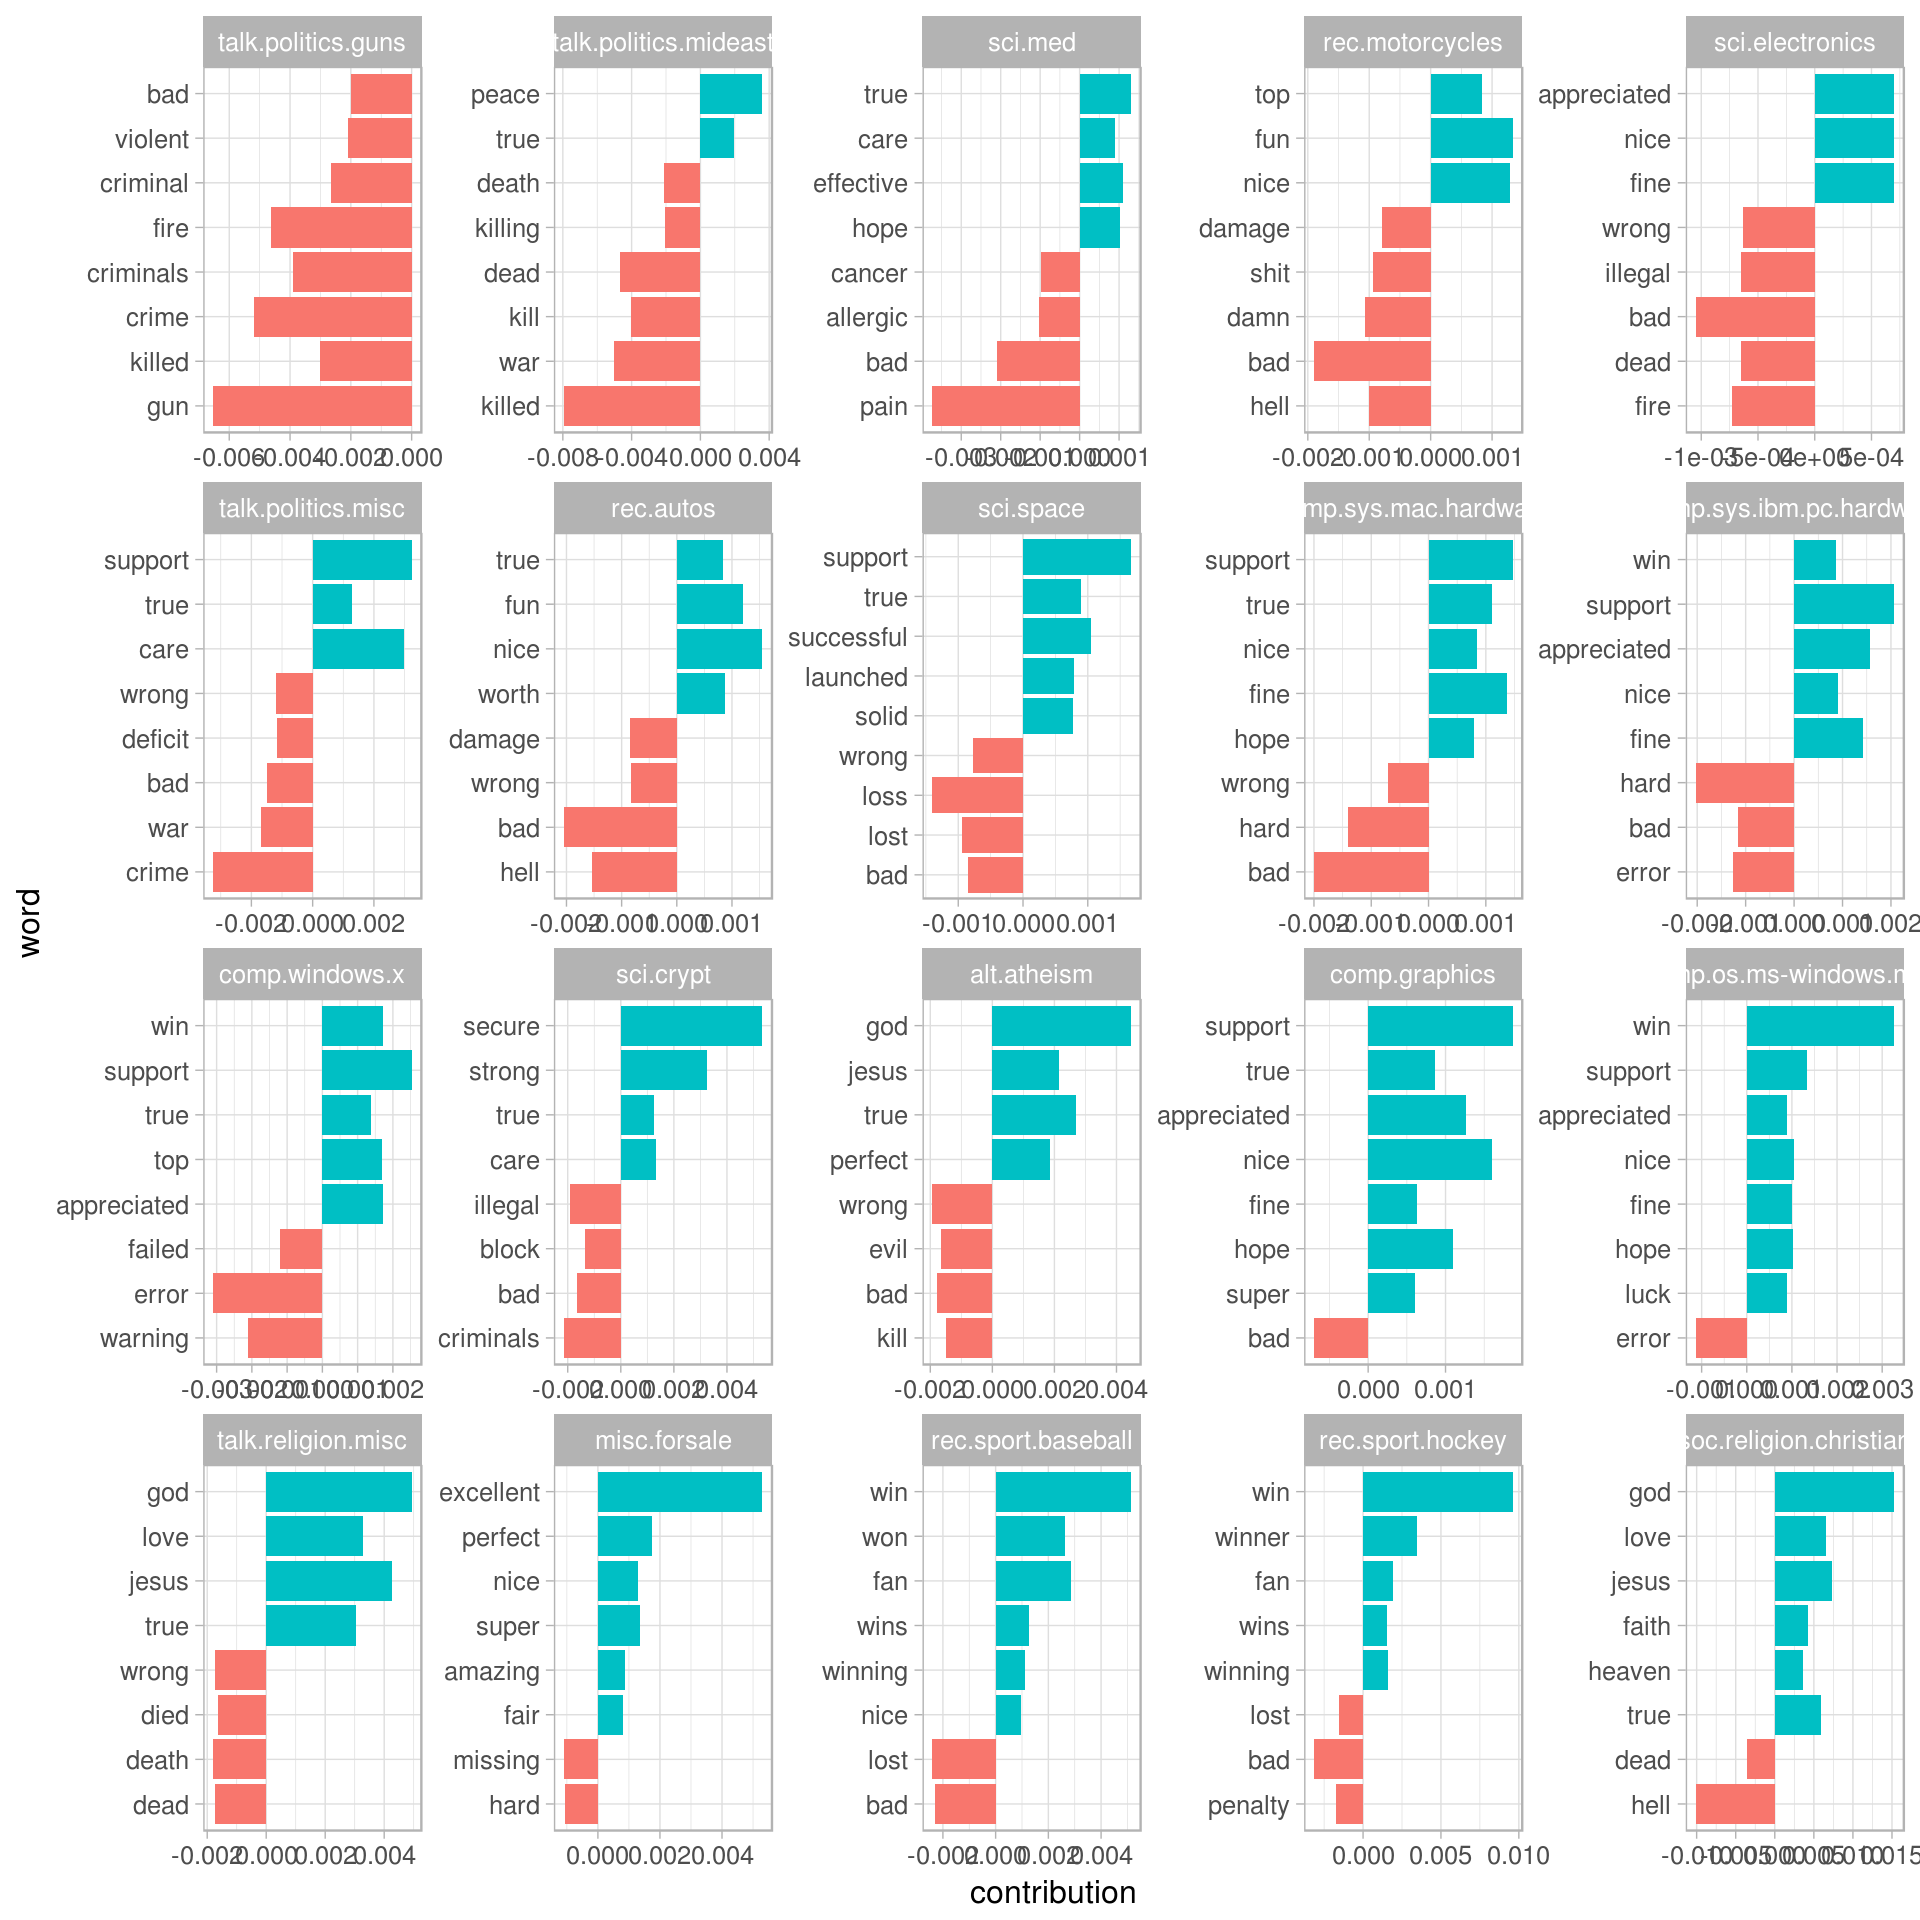
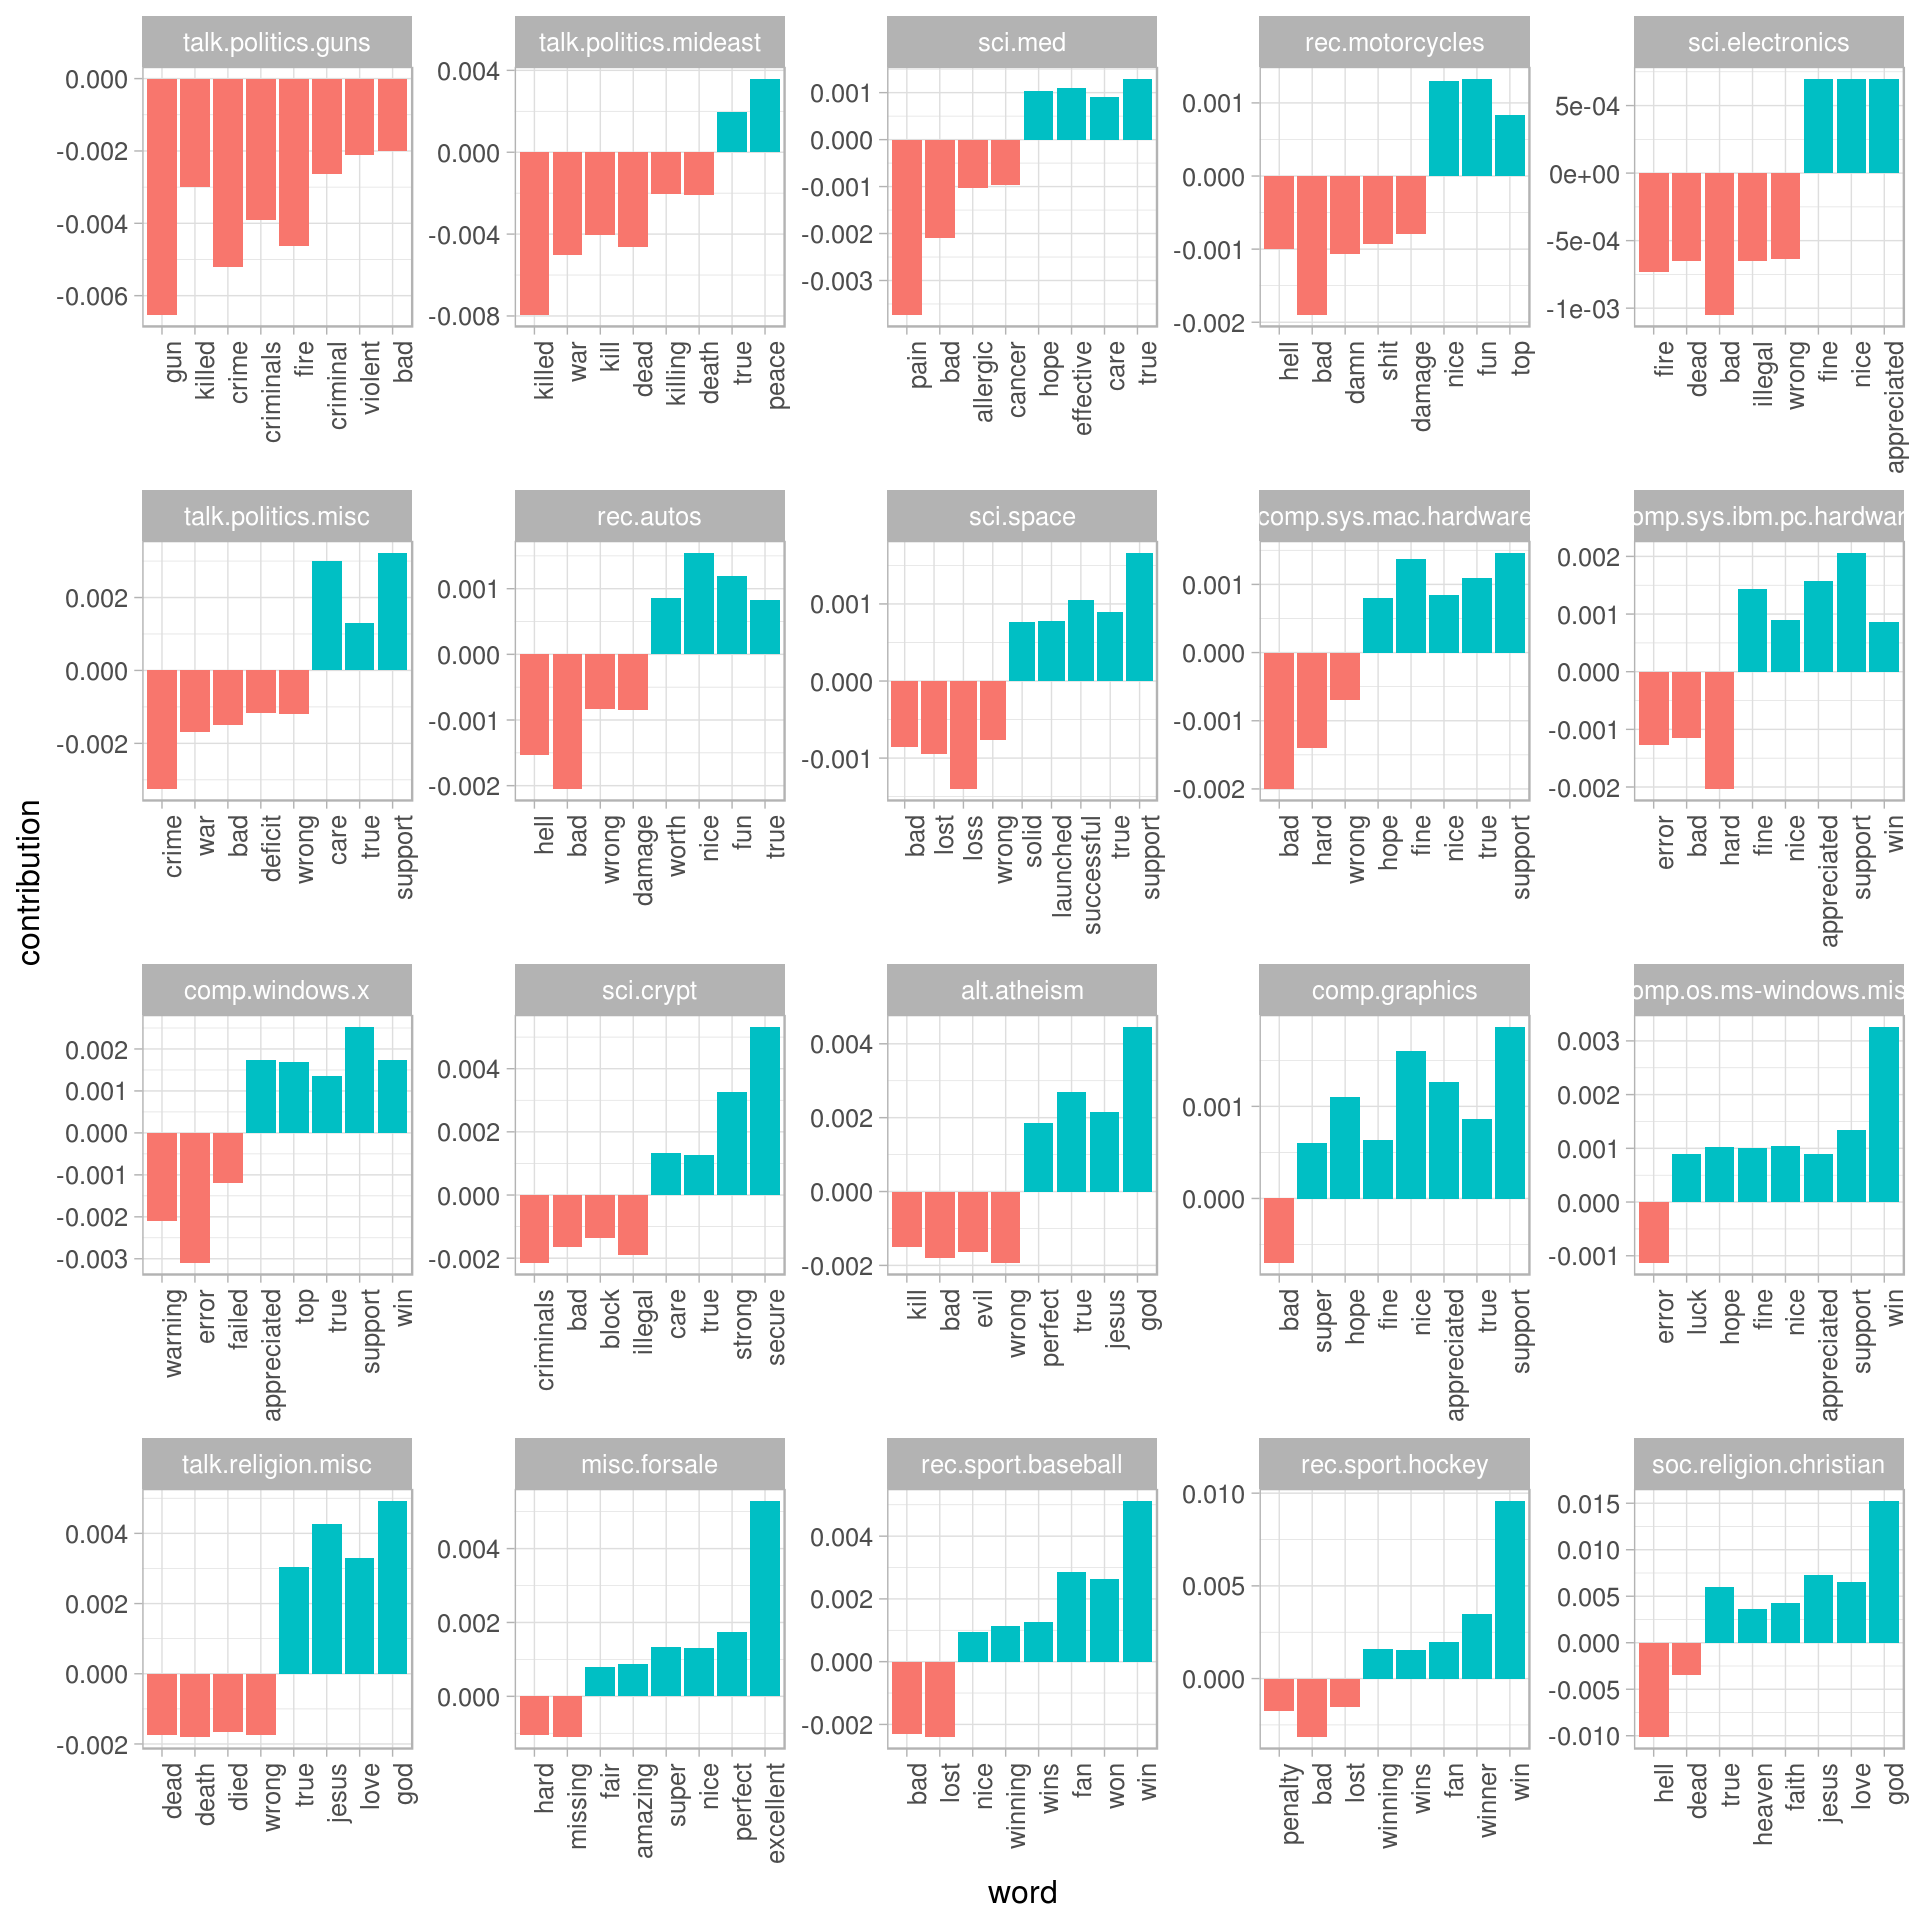
Updating book (62)

diff --git a/usenet.html b/usenet.html
@@ -395,9 +395,10 @@ top_sentiment_words %&gt;%
 <span class="st">  </span><span class="kw">ungroup</span>() %&gt;%
 <span class="st">  </span><span class="kw">mutate</span>(<span class="dt">board =</span> <span class="kw">reorder</span>(board, contribution),
          <span class="dt">word =</span> <span class="kw">reorder</span>(word, contribution)) %&gt;%
-<span class="st">  </span><span class="kw">ggplot</span>(<span class="kw">aes</span>(contribution, word, <span class="dt">fill =</span> contribution &gt;<span class="st"> </span><span class="dv">0</span>)) +
-<span class="st">  </span><span class="kw">geom_barh</span>(<span class="dt">stat =</span> <span class="st">&quot;identity&quot;</span>, <span class="dt">show.legend =</span> <span class="ot">FALSE</span>) +
-<span class="st">  </span><span class="kw">facet_wrap</span>(~<span class="st"> </span>board, <span class="dt">scales =</span> <span class="st">&quot;free&quot;</span>)</code></pre></div>
+<span class="st">  </span><span class="kw">ggplot</span>(<span class="kw">aes</span>(word, contribution, <span class="dt">fill =</span> contribution &gt;<span class="st"> </span><span class="dv">0</span>)) +
+<span class="st">  </span><span class="kw">geom_bar</span>(<span class="dt">stat =</span> <span class="st">&quot;identity&quot;</span>, <span class="dt">show.legend =</span> <span class="ot">FALSE</span>) +
+<span class="st">  </span><span class="kw">facet_wrap</span>(~<span class="st"> </span>board, <span class="dt">scales =</span> <span class="st">&quot;free&quot;</span>) +
+<span class="st">  </span><span class="kw">theme</span>(<span class="dt">axis.text.x =</span> <span class="kw">element_text</span>(<span class="dt">angle =</span> <span class="dv">90</span>, <span class="dt">hjust =</span> <span class="dv">1</span>))</code></pre></div>
 <p><img src="10-usenet_files/figure-html/top_sentiment_words-1.png" width="960" /></p>
 <p>We can also see how much sentiment is confounded with topic in this particular approach. An atheism board is likely to discuss “god” in detail even in a negative context, and we can see it makes the board look more positive. Similarly, the negative contribution of the word “gun” to the “talk.politics.guns” board would occur even if the board were positive.</p>
 </div>
@@ -522,9 +523,10 @@ usenet_digram_counts %&gt;%
 <span class="st">  </span><span class="kw">top_n</span>(<span class="dv">10</span>, <span class="kw">abs</span>(contribution)) %&gt;%
 <span class="st">  </span><span class="kw">ungroup</span>() %&gt;%
 <span class="st">  </span><span class="kw">mutate</span>(<span class="dt">word2 =</span> <span class="kw">reorder</span>(word2, contribution)) %&gt;%
-<span class="st">  </span><span class="kw">ggplot</span>(<span class="kw">aes</span>(contribution, word2, <span class="dt">fill =</span> contribution &gt;<span class="st"> </span><span class="dv">0</span>)) +
-<span class="st">  </span><span class="kw">geom_barh</span>(<span class="dt">stat =</span> <span class="st">&quot;identity&quot;</span>, <span class="dt">show.legend =</span> <span class="ot">FALSE</span>) +
-<span class="st">  </span><span class="kw">facet_wrap</span>(~<span class="st"> </span>word1, <span class="dt">scales =</span> <span class="st">&quot;free&quot;</span>, <span class="dt">nrow =</span> <span class="dv">2</span>)</code></pre></div>
+<span class="st">  </span><span class="kw">ggplot</span>(<span class="kw">aes</span>(word2, contribution, <span class="dt">fill =</span> contribution &gt;<span class="st"> </span><span class="dv">0</span>)) +
+<span class="st">  </span><span class="kw">geom_bar</span>(<span class="dt">stat =</span> <span class="st">&quot;identity&quot;</span>, <span class="dt">show.legend =</span> <span class="ot">FALSE</span>) +
+<span class="st">  </span><span class="kw">facet_wrap</span>(~<span class="st"> </span>word1, <span class="dt">scales =</span> <span class="st">&quot;free&quot;</span>, <span class="dt">nrow =</span> <span class="dv">2</span>) +
+<span class="st">  </span><span class="kw">theme</span>(<span class="dt">axis.text.x =</span> <span class="kw">element_text</span>(<span class="dt">angle =</span> <span class="dv">90</span>, <span class="dt">hjust =</span> <span class="dv">1</span>))</code></pre></div>
 <p><img src="10-usenet_files/figure-html/unnamed-chunk-17-1.png" width="672" /></p>
 
 </div>

diff --git a/10-usenet.md b/10-usenet.md
@@ -271,9 +271,10 @@ top_sentiment_words %>%
   ungroup() %>%
   mutate(board = reorder(board, contribution),
          word = reorder(word, contribution)) %>%
-  ggplot(aes(contribution, word, fill = contribution > 0)) +
-  geom_barh(stat = "identity", show.legend = FALSE) +
-  facet_wrap(~ board, scales = "free")
+  ggplot(aes(word, contribution, fill = contribution > 0)) +
+  geom_bar(stat = "identity", show.legend = FALSE) +
+  facet_wrap(~ board, scales = "free") +
+  theme(axis.text.x = element_text(angle = 90, hjust = 1))
 ```
 
 <img src="10-usenet_files/figure-html/top_sentiment_words-1.png" width="960" />
@@ -453,9 +454,10 @@ usenet_digram_counts %>%
   top_n(10, abs(contribution)) %>%
   ungroup() %>%
   mutate(word2 = reorder(word2, contribution)) %>%
-  ggplot(aes(contribution, word2, fill = contribution > 0)) +
-  geom_barh(stat = "identity", show.legend = FALSE) +
-  facet_wrap(~ word1, scales = "free", nrow = 2)
+  ggplot(aes(word2, contribution, fill = contribution > 0)) +
+  geom_bar(stat = "identity", show.legend = FALSE) +
+  facet_wrap(~ word1, scales = "free", nrow = 2) +
+  theme(axis.text.x = element_text(angle = 90, hjust = 1))
 ```
 
 <img src="10-usenet_files/figure-html/unnamed-chunk-17-1.png" width="672" />
